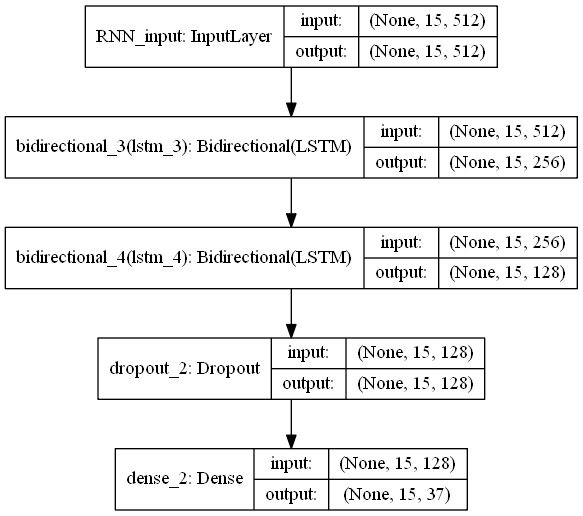
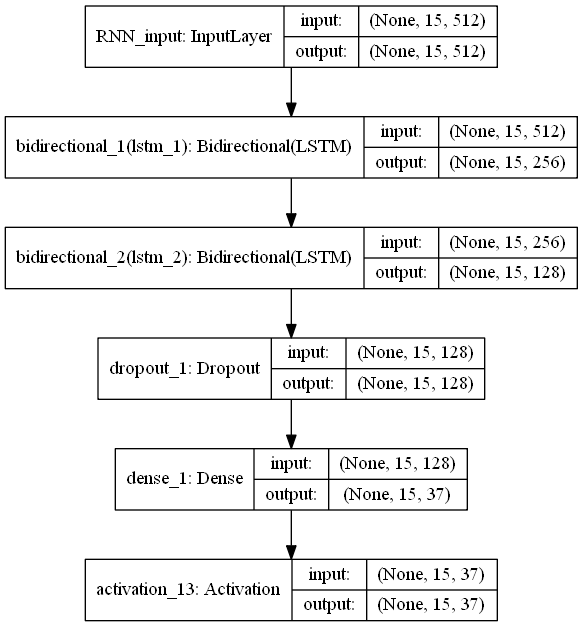
m

Changed region(s): [[0.0, 0.0, 1.0, 0.9922]]

diff --git a/model.py b/model.py
@@ -1,7 +1,8 @@
 
 import yaml
 import numpy as np
-from keras.layers import Conv2D, Input, MaxPooling2D
+import tensorflow as tf
+from keras.layers import Conv2D, Input, MaxPooling2D, Layer
 from keras.layers import Bidirectional, LSTM, Dense
 from keras.layers import BatchNormalization, Bidirectional, Activation, Dropout, Reshape
 from keras.models import Model
@@ -9,6 +10,28 @@ from keras.utils import plot_model
 from keras import backend as K 
 
 config_path = "./conf/conf.yaml"
+
+class CTCLayer(Layer):
+    def __init__(self, name=None):
+        super().__init__(name=name)
+        self.loss_fn = K.ctc_batch_cost
+
+    def __call__(self, y_true, y_pred):
+        # Compute the training-time loss value and add it
+        # to the layer using `self.add_loss()
+        batch_len = tf.cast(tf.shape(y_true)[0], dtype='int64')
+        input_length = tf.cast(tf.shape(y_pred)[1], dtype="int64")
+        label_length = tf.cast(tf.shape(y_true)[1], dtype="int64")
+
+        input_length = input_length * tf.ones(shape=(batch_len, 1), dtype="int64")
+        label_length = label_length * tf.ones(shape=(batch_len, 1), dtype="int64")
+
+        loss = self.loss_fn(y_true, y_pred, input_length, label_length)
+        self.add_loss(loss)
+
+        # At test time, just return the computed predictions
+        return y_pred
+
 
 class CRNN:
 
@@ -65,7 +88,8 @@ class CRNN:
         inner = Bidirectional(LSTM(units=128, return_sequences=True, dropout=0.3))(inputs)
         inner = Bidirectional(LSTM(units=64, return_sequences=True, dropout=0.3))(inner)
         inner = Dropout(rate=0.25)(inner)
-        outputs = Dense(units=self.class_num)(inner)
+        inner = Dense(units=self.class_num)(inner)
+        outputs = Activation('softmax')(inner)
 
         model = Model(inputs, outputs)
         plot_model(model, to_file='RNN.png', show_shapes=True)
@@ -73,6 +97,7 @@ class CRNN:
 
     def create_model(self):
         inputs = Input(shape=self.input_shapes, name='CRNN_input')
+        labels = Input(shape=(None,), name="label", dtype="float32")
         x = inputs
         for i in range(1, len(self.CNN_layer.layers)):
             x = self.CNN_layer.layers[i](x)
@@ -80,8 +105,10 @@ class CRNN:
         x = Reshape((rnn_input_shapes[0], rnn_input_shapes[1]))(x)
         for j in range(1, len(self.RNN_layer.layers)):
             x = self.RNN_layer.layers[j](x)
-        outputs = x
         
+        outputs = CTCLayer(name="ctc_loss")(labels, x)
+        
+        #outputs = x
         crnn_model = Model(inputs, outputs)
         return crnn_model
 

diff --git a/train.py b/train.py
@@ -3,15 +3,11 @@ from prepare_data import generatorData
 from model import CRNN
 
 import tensorflow as tf
+from keras.layers import Input, Layer
 from keras.layers import Lambda
 from keras.utils import to_categorical
+from keras.optimizers import RMSprop
 from keras import backend as K 
-
-
-def ctc_lambda_func(args):
-
-
-    pass
 
 class model_training:
 
@@ -24,21 +20,22 @@ gendata = generatorData()
 train_datas, train_labels = gendata.gen_Data(batch_size=60)
 test_datas, test_labels = gendata.gen_Data(batch_size=40)
 
-train_hot = to_categorical(train_labels)
+train_datas_shapes = np.shape(train_datas)
+
+train_labels_s = np.reshape(train_labels, (int(len(train_labels) / 4), 4))
+
+#train_hot = to_categorical(train_labels)
+#train_hot_s = np.reshape(train_hot, (int(shapes[0] / 4), 4, shapes[1]))
 
 input_shapes = np.shape(train_datas)[1:]
 
 model = CRNN(input_shapes).CRNN_model
 
+y_pred = model.outputs
 
-loss = Lambda()
+#print(y_pred)
 
+#labels = Input(shape=(None,), name="label", dtype="float32")
 
-
-"""
-model.compile(loss=ctc_loss,
-                optimizer=Adam(lr=0.001),
-                metrics=['accuracy', 'categorical_accuracy'])
-"""
-
+#output = CTCLayer(name="ctc_loss")(labels, y_pred)
 
